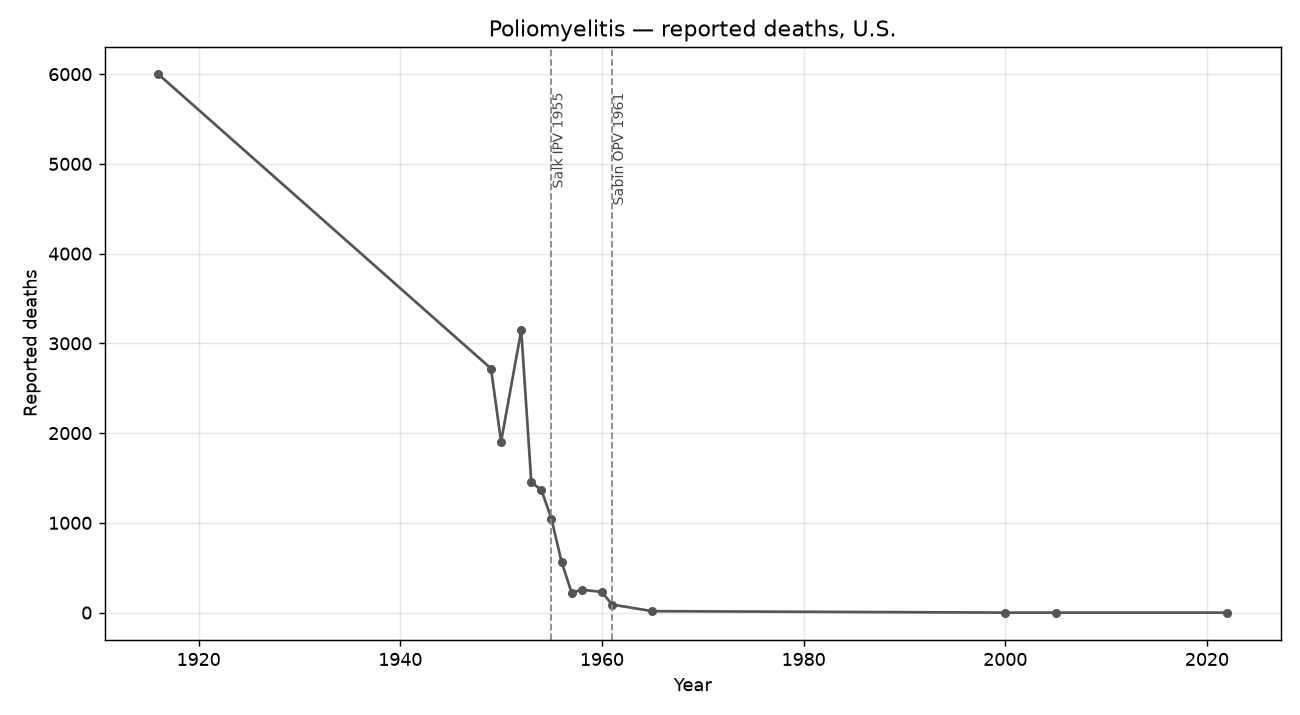
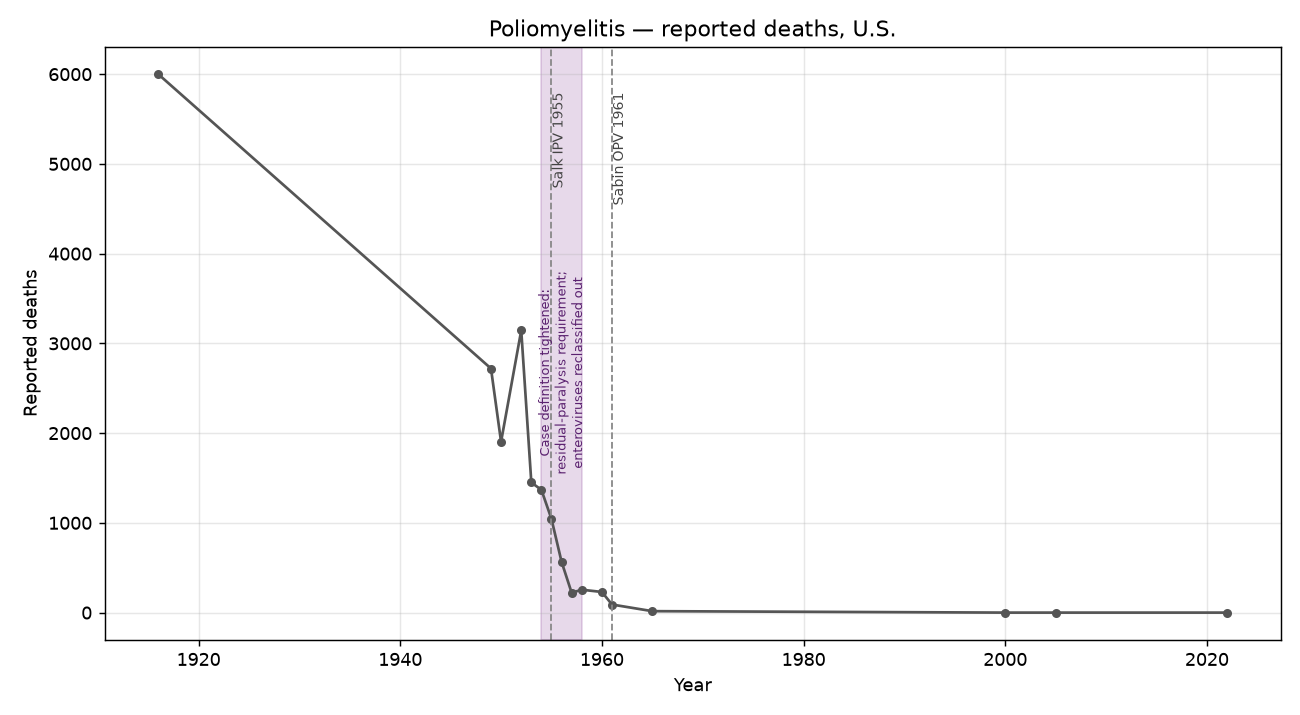
Emphasize polio case-definition change (1954-58) on charts
Shaded purple band + label on all polio static charts and the dashboard polio
panel, marking the mid-1950s tightening of the paralytic-polio definition and
the reclassification of enteroviruses out of "polio" — a key confounder when
reading the polio decline.

Changed region(s): [[0.4, 0.0615, 0.4615, 0.8923]]

diff --git a/docs/index.html b/docs/index.html
@@ -175,9 +175,26 @@ let earlyChart;
 function isLog() { return document.getElementById("logToggle").getAttribute("aria-pressed") === "true"; }
 function showVax() { return document.getElementById("vaxToggle").getAttribute("aria-pressed") === "true"; }
 
+// Periods where the case definition / classification changed materially.
+const DEFINITION_CHANGE = {
+  polio: { x0: 1954, x1: 1958, label: "Case definition tightened (1954-58)" },
+};
+
 function buildAnnotations(dis) {
-  if (!showVax()) return {};
   const ann = {};
+  // Definition-change band (shown regardless of the vaccine-marker toggle).
+  const dc = DEFINITION_CHANGE[dis];
+  if (dc) {
+    ann[`${dis}-defchange`] = {
+      type: "box", xMin: dc.x0, xMax: dc.x1,
+      backgroundColor: "rgba(123,45,142,0.18)", borderColor: "rgba(123,45,142,0.4)",
+      borderWidth: 1,
+      label: { display: true, content: dc.label, rotation: 90,
+               position: { x: "center", y: "center" }, color: "#c79bd6",
+               font: { size: 9 }, backgroundColor: "transparent" },
+    };
+  }
+  if (!showVax()) return ann;
   (D.vaccines[dis] || []).forEach((v, i) => {
     ann[`${dis}-${i}`] = {
       type: "line", xMin: v.year, xMax: v.year,

diff --git a/scripts/generate_charts.py b/scripts/generate_charts.py
@@ -66,6 +66,23 @@ def add_vaccine_lines(ax, disease):
                 rotation=90, va="top", ha="left", fontsize=8, color="#444")
 
 
+# Periods where the case definition / classification changed materially.
+DEFINITION_CHANGE = {
+    "polio": (1954, 1958,
+              "Case definition tightened:\nresidual-paralysis requirement;\nenteroviruses reclassified out"),
+}
+
+
+def add_definition_marker(ax, disease):
+    if disease not in DEFINITION_CHANGE:
+        return
+    x0, x1, label = DEFINITION_CHANGE[disease]
+    ax.axvspan(x0, x1, color="#7b2d8e", alpha=0.18, zorder=0)
+    trans = ax.get_xaxis_transform()  # x in data coords, y in axes fraction
+    ax.text((x0 + x1) / 2, 0.45, label, rotation=90, ha="center", va="center",
+            fontsize=7, color="#5b2270", transform=trans, zorder=5)
+
+
 def drop_zeros(yrs, vals):
     """Log scale cannot show zeros; drop those points."""
     pairs = [(y, v) for y, v in zip(yrs, vals) if v and v > 0]
@@ -83,6 +100,7 @@ def cases_chart(disease, rows, case_field, title):
     ax.set_yscale("log")
     ax.grid(True, which="both", alpha=0.3)
     add_vaccine_lines(ax, disease)
+    add_definition_marker(ax, disease)
     fig.tight_layout()
     p = os.path.join(OUT, f"{disease}_cases.png")
     fig.savefig(p, dpi=130)
@@ -102,6 +120,7 @@ def incidence_chart(disease, rows, case_field, title, pyrs, pop):
     ax.set_yscale("log")
     ax.grid(True, which="both", alpha=0.3)
     add_vaccine_lines(ax, disease)
+    add_definition_marker(ax, disease)
     fig.tight_layout()
     p = os.path.join(OUT, f"{disease}_incidence.png")
     fig.savefig(p, dpi=130)
@@ -120,6 +139,7 @@ def deaths_chart(disease, rows, title):
     ax.set_ylabel("Reported deaths")
     ax.grid(True, alpha=0.3)
     add_vaccine_lines(ax, disease)
+    add_definition_marker(ax, disease)
     fig.tight_layout()
     p = os.path.join(OUT, f"{disease}_deaths.png")
     fig.savefig(p, dpi=130)